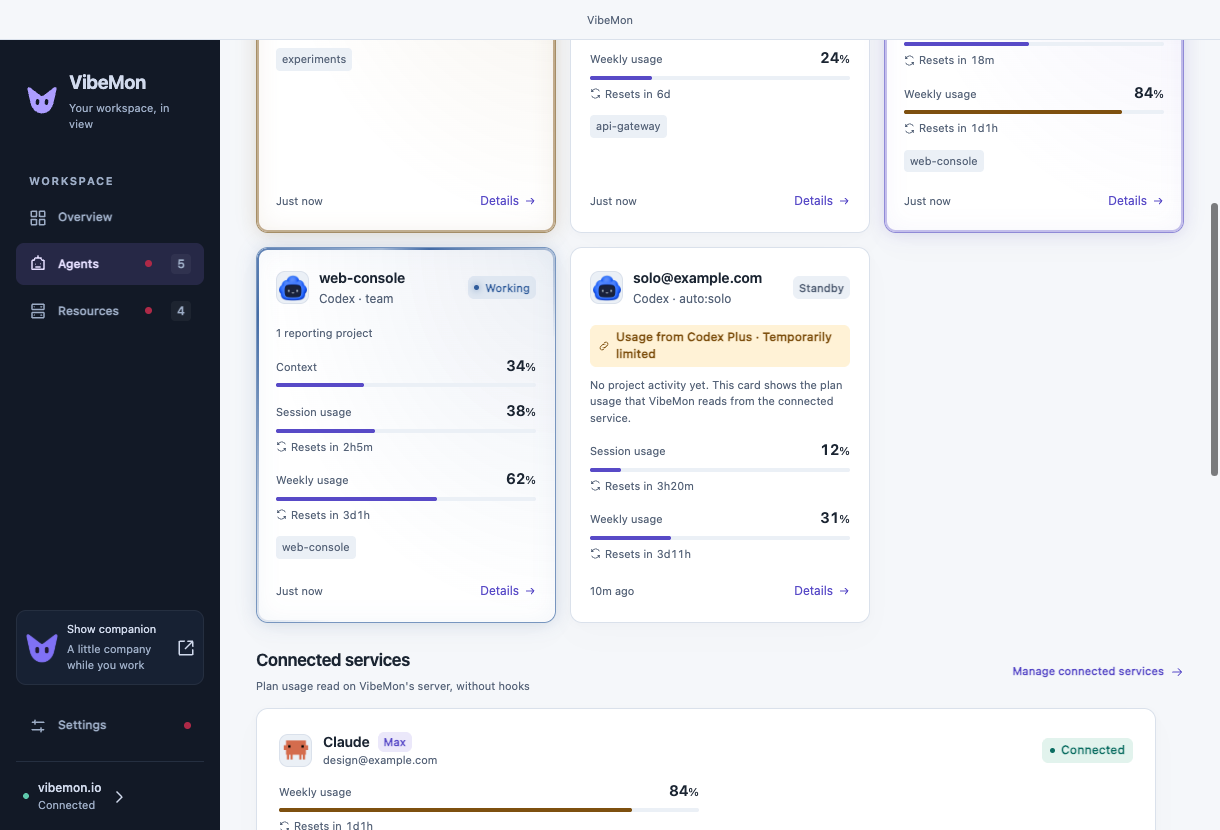
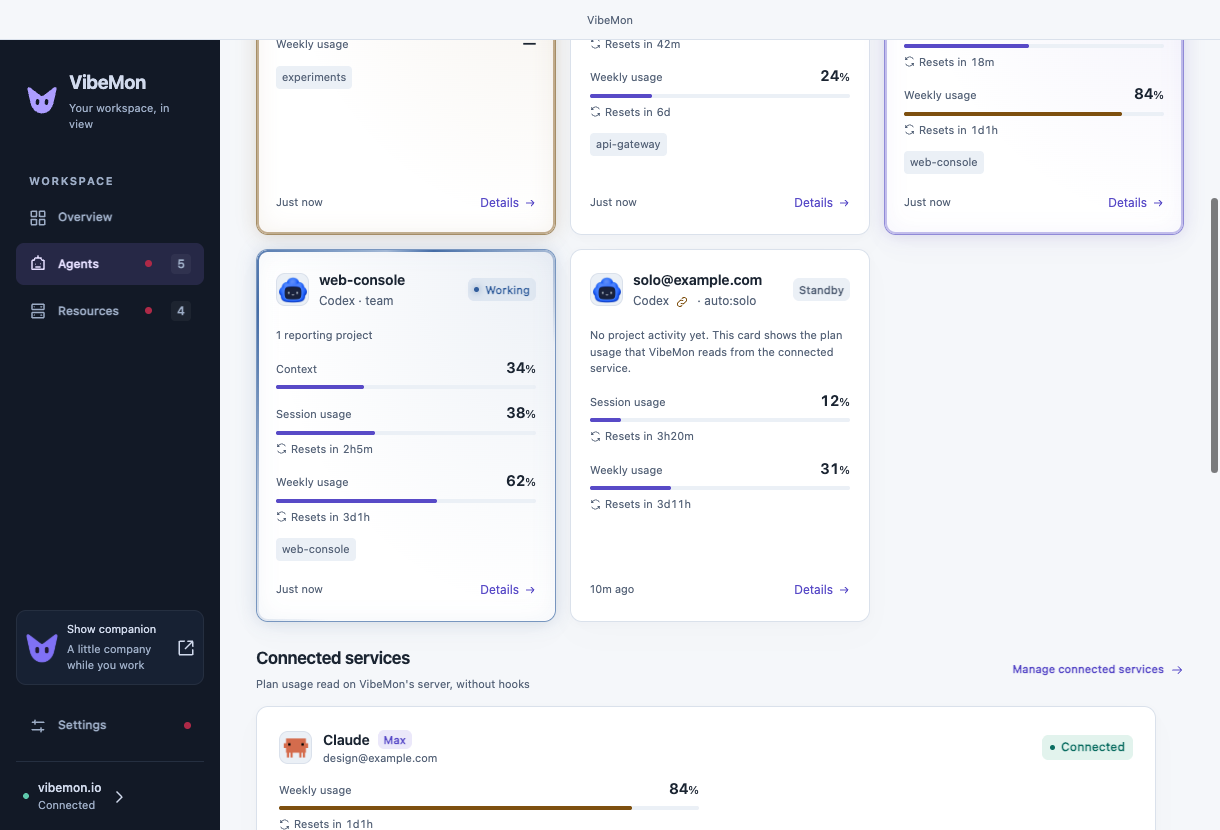
feat: 연결된 계정을 부제목의 링크 아이콘으로 표시 (3.19.1) (#139)
* feat: mark connected accounts with a link icon in the subtitle

Replace the Usage from chip on account cards with an icon-only button after
the provider name, in the card and details subtitles. Its tooltip names the
service, plan, and any state that needs attention; its tone follows the
connection; it opens Connected services with a 24 px target and never the
details. Details still open with focus on Close.

* docs: describe the connected-account link icon

* chore: release 3.19.1

* fix: keep the link icon on account cards only

The details header stays text: its Connected service section already
shows the connection right below it.

diff --git a/src/workspace/views/cards.js b/src/workspace/views/cards.js
@@ -41,23 +41,52 @@ export const isConnectedOnly = source => Boolean(source.isAccount && source.memb
 const PLAN_USAGE_METRICS = new Set(['usageSessionPercent', 'usageWeekPercent']);
 /** Whether `metric` belongs on `source`: a connected-only account shows plan usage only. */
 export const showsMetric = (source, metric) => !isConnectedOnly(source) || PLAN_USAGE_METRICS.has(metric.key);
-/** Apply an account's connected-service chip; hidden without a connection. */
+/** Apply an account's connected-service chip (account details); hidden without a connection. */
 export function connectionChip(node, source) {
   const connection = source.isAccount ? source.account?.connection : null;
   node.hidden = !connection;
   if (!connection) return;
   const { label, tone } = accountConnectionChip(source.provider, connection);
   node.className = `chip ${tone} connection-chip`;
-  // The chip opens Connected services; its name says so.
-  if (node.tagName === 'BUTTON') {
-    node.title = t('services.manage');
-    node.setAttribute('aria-label', `${label} · ${t('services.manage')}`);
-  }
   if (node._label) text(node._label, label);
   else {
     node._label = el('span', label);
     node.replaceChildren(icon('link'), node._label);
   }
+}
+
+/**
+ * Fills a card subtitle: "Claude Code · studio" for an account,
+ * the resource type otherwise. An account whose usage a connected service
+ * reads gets a link icon after the provider name. The icon is a button that
+ * calls `openServices`. Its tooltip names the service and plan, such as
+ * "Usage from Claude Max", with the state appended when the connection needs
+ * attention; its tone follows that state.
+ */
+export function subtitle(node, source, openServices) {
+  if (!node._subtitle) {
+    const provider = el('span');
+    const link = button('', event => {
+      // The icon opens Connected services, never the card or its details.
+      event.stopPropagation();
+      node._openServices?.();
+    }, 'connection-link');
+    link.append(icon('link'));
+    const account = el('span');
+    node.replaceChildren(provider, link, account);
+    node._subtitle = { provider, link, account };
+  }
+  node._openServices = openServices;
+  const { provider, link, account } = node._subtitle;
+  text(provider, source.isAccount ? providerName(source.provider) : sourceType(source));
+  text(account, source.isAccount ? ` · ${accountName(source.sourceId)}` : '');
+  const connection = source.isAccount ? source.account?.connection : null;
+  link.hidden = !connection || !openServices;
+  if (link.hidden) return;
+  const { label, tone } = accountConnectionChip(source.provider, connection);
+  link.dataset.tone = tone;
+  link.title = label;
+  link.setAttribute('aria-label', `${label} · ${t('services.manage')}`);
 }
 
 export function createMetric() {
@@ -176,7 +205,6 @@ export function renderCards(
       titles.append(name, type);
       const status = el('span', undefined, 'chip');
       heading.append(image, titles, status);
-      const connection = button('', () => card._openServices?.(), 'chip connection-chip');
       const message = el('p', undefined, 'card-message');
       const metrics = el('div', undefined, 'metrics');
       const members = el('div', undefined, 'card-members');
@@ -185,13 +213,12 @@ export function renderCards(
       const details = button(t('cards.details'), () => openDetail(card._source), '');
       details.append(icon('arrow'));
       footer.append(received, details);
-      card.append(edge, heading, connection, message, metrics, members, footer);
-      card._parts = { edge, name, type, image, status, connection, message, metrics, members, received, details };
+      card.append(edge, heading, message, metrics, members, footer);
+      card._parts = { edge, name, type, image, status, message, metrics, members, received, details };
       return card;
     },
     (card, source) => {
       card._source = source;
-      card._openServices = openServices;
       card.classList.toggle('compact-card', compact);
       card.classList.toggle('vm-agent-card', Boolean(source.isAccount));
       if (source.isAccount) {
@@ -205,7 +232,7 @@ export function renderCards(
       const parts = card._parts;
       parts.edge.hidden = !source.isAccount;
       text(parts.name, source.displayName);
-      text(parts.type, sourceType(source));
+      subtitle(parts.type, source, openServices);
       parts.type.title = source.isAccount ? source.sourceId : '';
       const identity = source.isAccount ? source.agent?.character : source.kind;
       if (parts.image.dataset.identity !== identity) {
@@ -223,7 +250,6 @@ export function renderCards(
         parts.image.dataset.identity = identity;
       }
       badge(parts.status, sourceState(source));
-      connectionChip(parts.connection, source);
       const connectedOnly = isConnectedOnly(source);
       const message =
         source.statusMessage ||

diff --git a/src/workspace/style.css b/src/workspace/style.css
@@ -1685,17 +1685,37 @@ dialog::backdrop {
   color: var(--vm-accent-foreground);
 }
 .connection-chip {
-  align-self: flex-start;
-  width: fit-content;
-  border: 0;
-  margin: 0 0 10px;
   max-width: 100%;
   white-space: normal;
   overflow-wrap: anywhere;
-  text-align: left;
 }
-button.connection-chip:hover {
-  filter: brightness(0.97);
+/* The link icon after the provider name: a 24 px target that does not grow the line. */
+.connection-link {
+  display: inline-grid;
+  place-items: center;
+  width: 24px;
+  height: 24px;
+  margin: -6px 0 -6px 1px;
+  padding: 0;
+  border: 0;
+  border-radius: 6px;
+  background: none;
+  color: var(--vm-accent);
+  vertical-align: middle;
+  letter-spacing: 0;
+}
+.connection-link[data-tone='warning'] {
+  color: var(--vm-warning);
+}
+.connection-link[data-tone='danger'] {
+  color: var(--vm-danger);
+}
+.connection-link:hover {
+  background: var(--vm-subtle);
+}
+.connection-link > .icon {
+  width: 14px;
+  height: 14px;
 }
 .connection-chip:before {
   display: none;
@@ -1836,9 +1856,6 @@ button.connection-chip:hover {
   flex-wrap: wrap;
   align-items: center;
   gap: 12px;
-}
-.detail-connection-row > .connection-chip {
-  margin: 0;
 }
 .service-dialog {
   width: 560px;

diff --git a/docs/monitoring.md b/docs/monitoring.md
@@ -88,9 +88,9 @@ Each connection shows its service, plan, account label, state, the weekly usage 
 
 While no service is connected, **Overview** shows **See your weekly allowance. No computer setup required.** with **Connect Claude** and **Connect Codex**. A connection that is not **Connected**, or whose reading is old, appears at the top of **Overview** instead; select it to open Connected services. Opening Overview, **Agents**, or Connected services reads the connections again.
 
-An agent account whose usage a service reads shows a chip such as **Usage from Claude Max**, followed by the state when it is not ready. Select it to open Connected services. A connected account without hook reports has its own card: it shows only session and weekly plan usage (never context), no projects, and no history. Its details have a **Connected service** section with **Manage connected services**.
+An agent account whose usage a service reads shows a link icon right after the provider name on its card, for example `Claude Code 🔗 · studio`. Point to the icon to see **Usage from Claude Max**, followed by **Sign in again**, **Temporarily limited**, or **Not responding** when the connection needs attention. The icon uses the accent color when the connection is ready, and the warning or danger color otherwise. Select it to open Connected services; it does not open the card details. A connected account without hook reports has its own card: it shows only session and weekly plan usage (never context), no projects, and no history. Its details have a **Connected service** section with **Usage from Claude Max** and **Manage connected services**.
 
-![A connected-only Codex account card with its connected-service chip](images/connected-services-cards.png)
+![A connected-only Codex account card with the link icon after its provider name](images/connected-services-cards.png)
 
 A read token from an earlier Desktop version, or one pasted from Web Account, has no `usage` permission. Viewing connections still works. Connecting or disconnecting shows **Sign in to VibeMon again on this desktop to connect services.** Select **Sign in to VibeMon again** in the dialog or on the connection. The dashboard connection is not affected.
 
